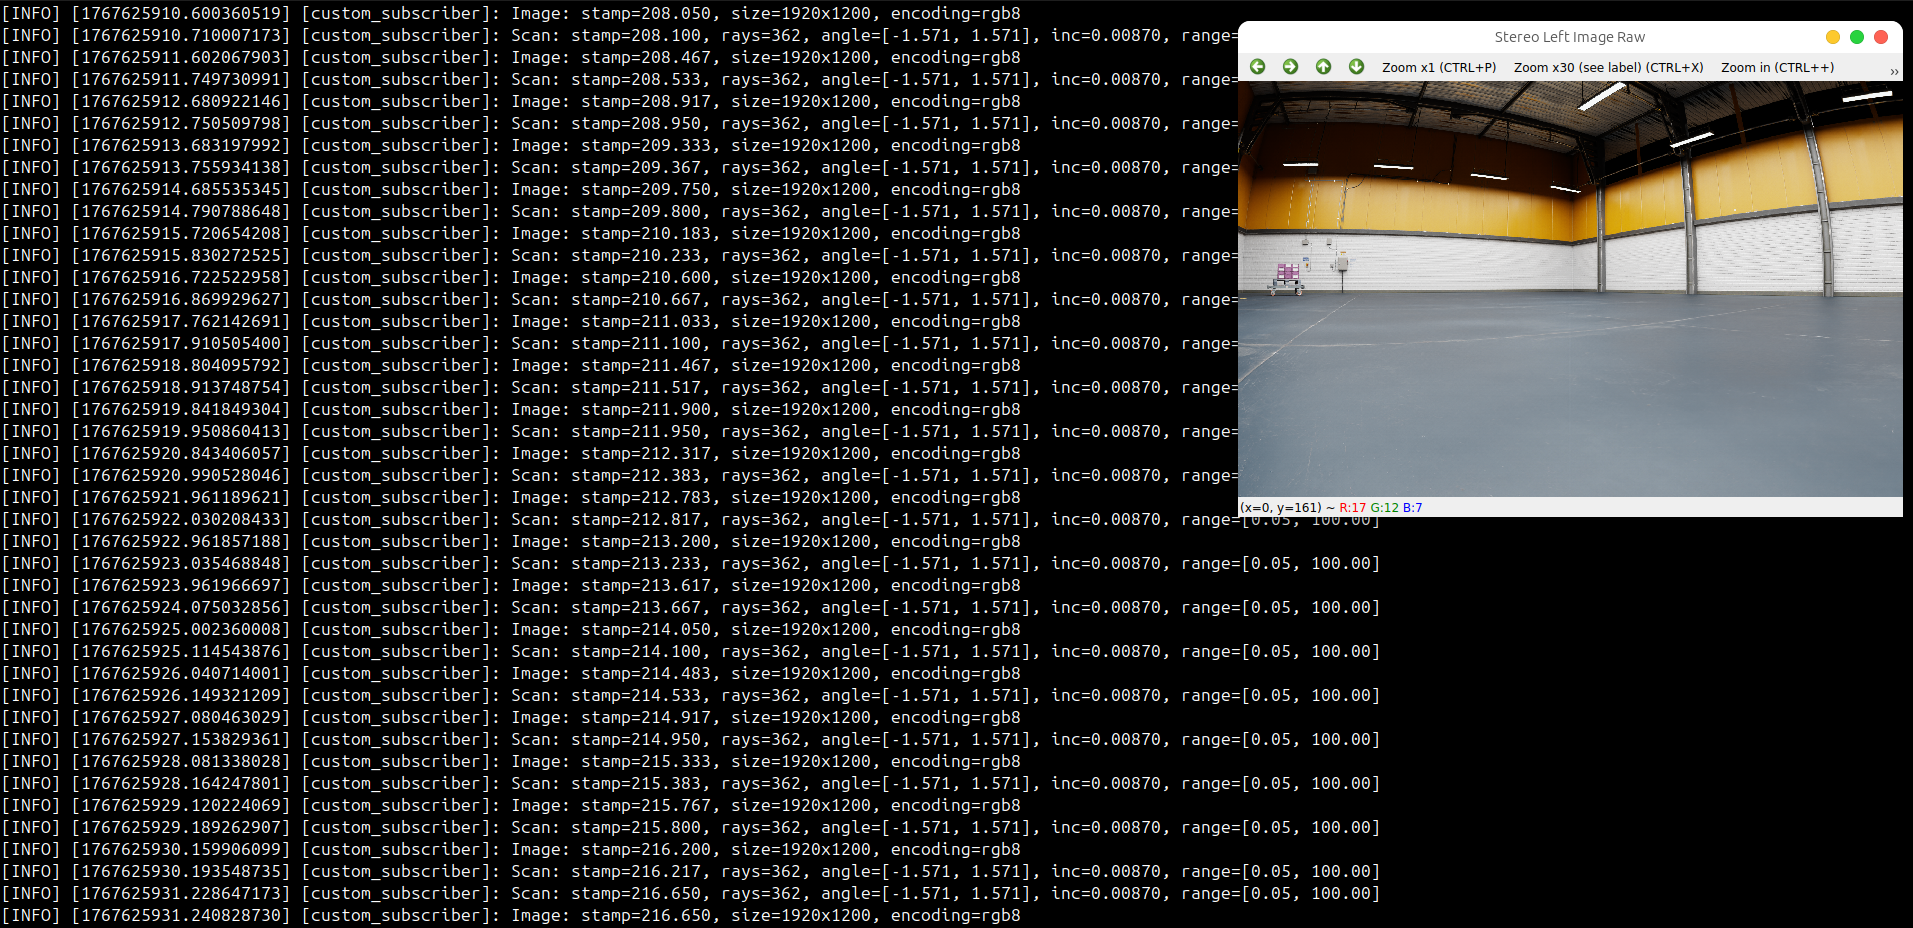
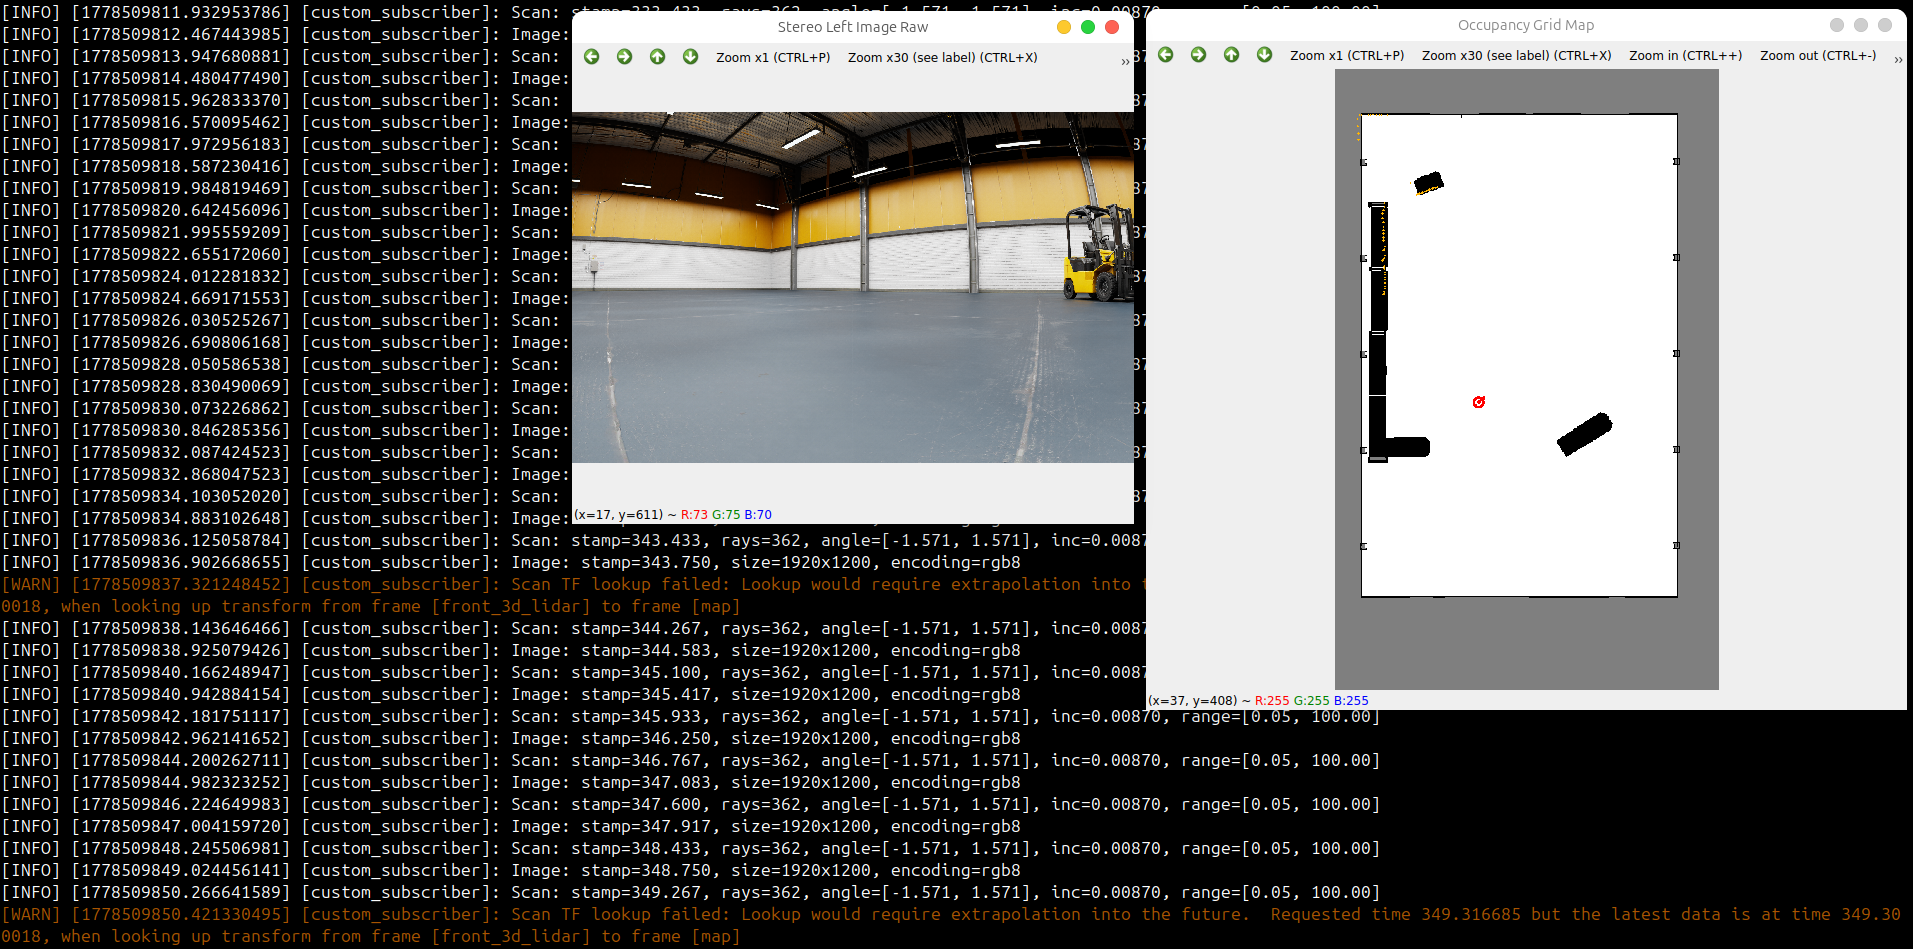
add scan draw system

diff --git a/src/custom_subscriber.cpp b/src/custom_subscriber.cpp
@@ -37,6 +37,7 @@ class CustomSubscriber : public rclcpp::Node {
 
     nav_msgs::msg::MapMetaData map_info_{};
     cv::Mat map_image_{};
+    sensor_msgs::msg::LaserScan::ConstSharedPtr latest_scan_{};
 
     class ConstInfo {
       public:
@@ -53,6 +54,7 @@ class CustomSubscriber : public rclcpp::Node {
         static constexpr const char* MAP_WINDOW_NAME{"Occupancy Grid Map"};
 
         static constexpr const char* MAP_FRAME_NAME{"map"};
+        static constexpr const char* SCAN_FRAME_NAME{"front_3d_lidar"};
         static constexpr const char* ROBOT_FRAME_NAME{"base_link"};
 
         static constexpr int MAP_RENDER_PERIOD_MS{100};
@@ -109,6 +111,8 @@ class CustomSubscriber : public rclcpp::Node {
     }
 
     void onScan(const sensor_msgs::msg::LaserScan::ConstSharedPtr& msg) {
+      latest_scan_ = msg;
+
       RCLCPP_INFO_THROTTLE(
       get_logger(), *get_clock(), ConstInfo::INFO_LOG_PERIOD_MS,
       "Scan: stamp=%.3f, rays=%zu, angle=[%.3f, %.3f], inc=%.5f, range=[%.2f, %.2f]",
@@ -154,6 +158,99 @@ class CustomSubscriber : public rclcpp::Node {
       return std::atan2(siny_cosp, cosy_cosp);
     }
 
+    bool worldToMapPixel(const double world_x, const double world_y, cv::Point& pixel) const {
+      if (map_info_.resolution <= 0.0) {
+        return false;
+      }
+
+      const auto origin_yaw = getYaw(map_info_.origin.orientation);
+      const auto dx = world_x - map_info_.origin.position.x;
+      const auto dy = world_y - map_info_.origin.position.y;
+      const auto cos_yaw = std::cos(-origin_yaw);
+      const auto sin_yaw = std::sin(-origin_yaw);
+      const auto map_x = (cos_yaw * dx - sin_yaw * dy) / map_info_.resolution;
+      const auto map_y = (sin_yaw * dx + cos_yaw * dy) / map_info_.resolution;
+      const auto pixel_x = static_cast<int>(std::lround(map_x));
+      const auto pixel_y = static_cast<int>(map_info_.height - 1) - static_cast<int>(std::lround(map_y));
+
+      if (pixel_x < 0 || pixel_x >= static_cast<int>(map_info_.width)
+        || pixel_y < 0 || pixel_y >= static_cast<int>(map_info_.height)) {
+        return false;
+      }
+
+      pixel = cv::Point(pixel_x, pixel_y);
+      return true;
+    }
+
+    void drawScan(cv::Mat& display_image) {
+      if (!latest_scan_) {
+        return;
+      }
+
+      try {
+        const auto map_to_scan = tf_buffer_->lookupTransform(
+          ConstInfo::MAP_FRAME_NAME, ConstInfo::SCAN_FRAME_NAME, latest_scan_->header.stamp);
+
+        const auto& translation = map_to_scan.transform.translation;
+        const auto scan_yaw = getYaw(map_to_scan.transform.rotation);
+        const auto cos_yaw = std::cos(scan_yaw);
+        const auto sin_yaw = std::sin(scan_yaw);
+
+        for (std::size_t i = 0; i < latest_scan_->ranges.size(); ++i) {
+          const auto range = latest_scan_->ranges[i];
+          if (!std::isfinite(range) || range < latest_scan_->range_min || range > latest_scan_->range_max) {
+            continue;
+          }
+
+          const auto angle = latest_scan_->angle_min + static_cast<double>(i) * latest_scan_->angle_increment;
+          const auto scan_x = range * std::cos(angle);
+          const auto scan_y = range * std::sin(angle);
+          const auto world_x = translation.x + cos_yaw * scan_x - sin_yaw * scan_y;
+          const auto world_y = translation.y + sin_yaw * scan_x + cos_yaw * scan_y;
+
+          cv::Point scan_pixel;
+          if (worldToMapPixel(world_x, world_y, scan_pixel)) {
+            cv::circle(display_image, scan_pixel, 1, cv::Scalar(0, 180, 255), cv::FILLED);
+          }
+        }
+      } catch (const tf2::TransformException& ex) {
+        RCLCPP_WARN_THROTTLE(
+          get_logger(), *get_clock(), ConstInfo::WARN_LOG_PERIOD_MS,
+          "Scan TF lookup failed: %s",
+          ex.what());
+      }
+    }
+
+    void drawRobot(cv::Mat& display_image) {
+      try {
+        const auto map_to_robot = tf_buffer_->lookupTransform(
+          ConstInfo::MAP_FRAME_NAME, ConstInfo::ROBOT_FRAME_NAME, tf2::TimePointZero);
+
+        const auto& translation = map_to_robot.transform.translation;
+        const auto robot_yaw = getYaw(map_to_robot.transform.rotation);
+        const auto cos_yaw = std::cos(robot_yaw);
+        const auto sin_yaw = std::sin(robot_yaw);
+
+        cv::Point robot_center;
+        if (worldToMapPixel(translation.x, translation.y, robot_center)) {
+          cv::circle(display_image, robot_center, 6, cv::Scalar(0, 0, 255), 2);
+        }
+
+        const auto world_x = translation.x + cos_yaw * 0.5;
+        const auto world_y = translation.y + sin_yaw * 0.5;
+
+        cv::Point robot_direction;
+        if (worldToMapPixel(world_x, world_y, robot_direction)) {
+          cv::line(display_image, robot_center, robot_direction, cv::Scalar(0, 0, 255), 2);
+        }
+      } catch (const tf2::TransformException& ex) {
+        RCLCPP_WARN_THROTTLE(
+          get_logger(), *get_clock(), ConstInfo::WARN_LOG_PERIOD_MS,
+          "Robot TF lookup failed: %s",
+          ex.what());
+      }
+    }
+
     void renderMap() {
       if (map_image_.empty()) {
         return;
@@ -162,43 +259,8 @@ class CustomSubscriber : public rclcpp::Node {
       cv::Mat display_image;
       cv::cvtColor(map_image_, display_image, cv::COLOR_GRAY2BGR);
 
-      try {
-        const auto map_to_robot = tf_buffer_->lookupTransform(
-          ConstInfo::MAP_FRAME_NAME, ConstInfo::ROBOT_FRAME_NAME, tf2::TimePointZero);
-
-        const auto& translation = map_to_robot.transform.translation;
-        const auto origin_yaw = getYaw(map_info_.origin.orientation);
-        const auto dx = translation.x - map_info_.origin.position.x;
-        const auto dy = translation.y - map_info_.origin.position.y;
-        const auto cos_yaw = std::cos(-origin_yaw);
-        const auto sin_yaw = std::sin(-origin_yaw);
-        const auto map_x = (cos_yaw * dx - sin_yaw * dy) / map_info_.resolution;
-        const auto map_y = (sin_yaw * dx + cos_yaw * dy) / map_info_.resolution;
-        const auto pixel_x = static_cast<int>(std::lround(map_x));
-        const auto pixel_y = static_cast<int>(map_info_.height - 1) - static_cast<int>(std::lround(map_y));
-
-        if (pixel_x < 0 || pixel_x >= static_cast<int>(map_info_.width)
-          || pixel_y < 0 || pixel_y >= static_cast<int>(map_info_.height)) {
-          RCLCPP_WARN_THROTTLE(
-            get_logger(), *get_clock(), ConstInfo::WARN_LOG_PERIOD_MS,
-            "TF: robot is outside the map, position=[%.3f, %.3f]",
-            translation.x, translation.y);
-        } else {
-          const cv::Point robot_center(pixel_x, pixel_y);
-          const auto robot_yaw = getYaw(map_to_robot.transform.rotation) - origin_yaw;
-          const cv::Point robot_direction(
-            pixel_x + static_cast<int>(std::lround(std::cos(robot_yaw) * 10.0)),
-            pixel_y - static_cast<int>(std::lround(std::sin(robot_yaw) * 10.0)));
-
-          cv::circle(display_image, robot_center, 6, cv::Scalar(0, 0, 255), 2);
-          cv::line(display_image, robot_center, robot_direction, cv::Scalar(0, 0, 255), 2);
-        }
-      } catch (const tf2::TransformException& ex) {
-        RCLCPP_WARN_THROTTLE(
-          get_logger(), *get_clock(), ConstInfo::WARN_LOG_PERIOD_MS,
-          "TF lookup failed: %s",
-          ex.what());
-      }
+      drawScan(display_image);
+      drawRobot(display_image);
 
       cv::imshow(ConstInfo::MAP_WINDOW_NAME, display_image);
       cv::waitKey(1);
